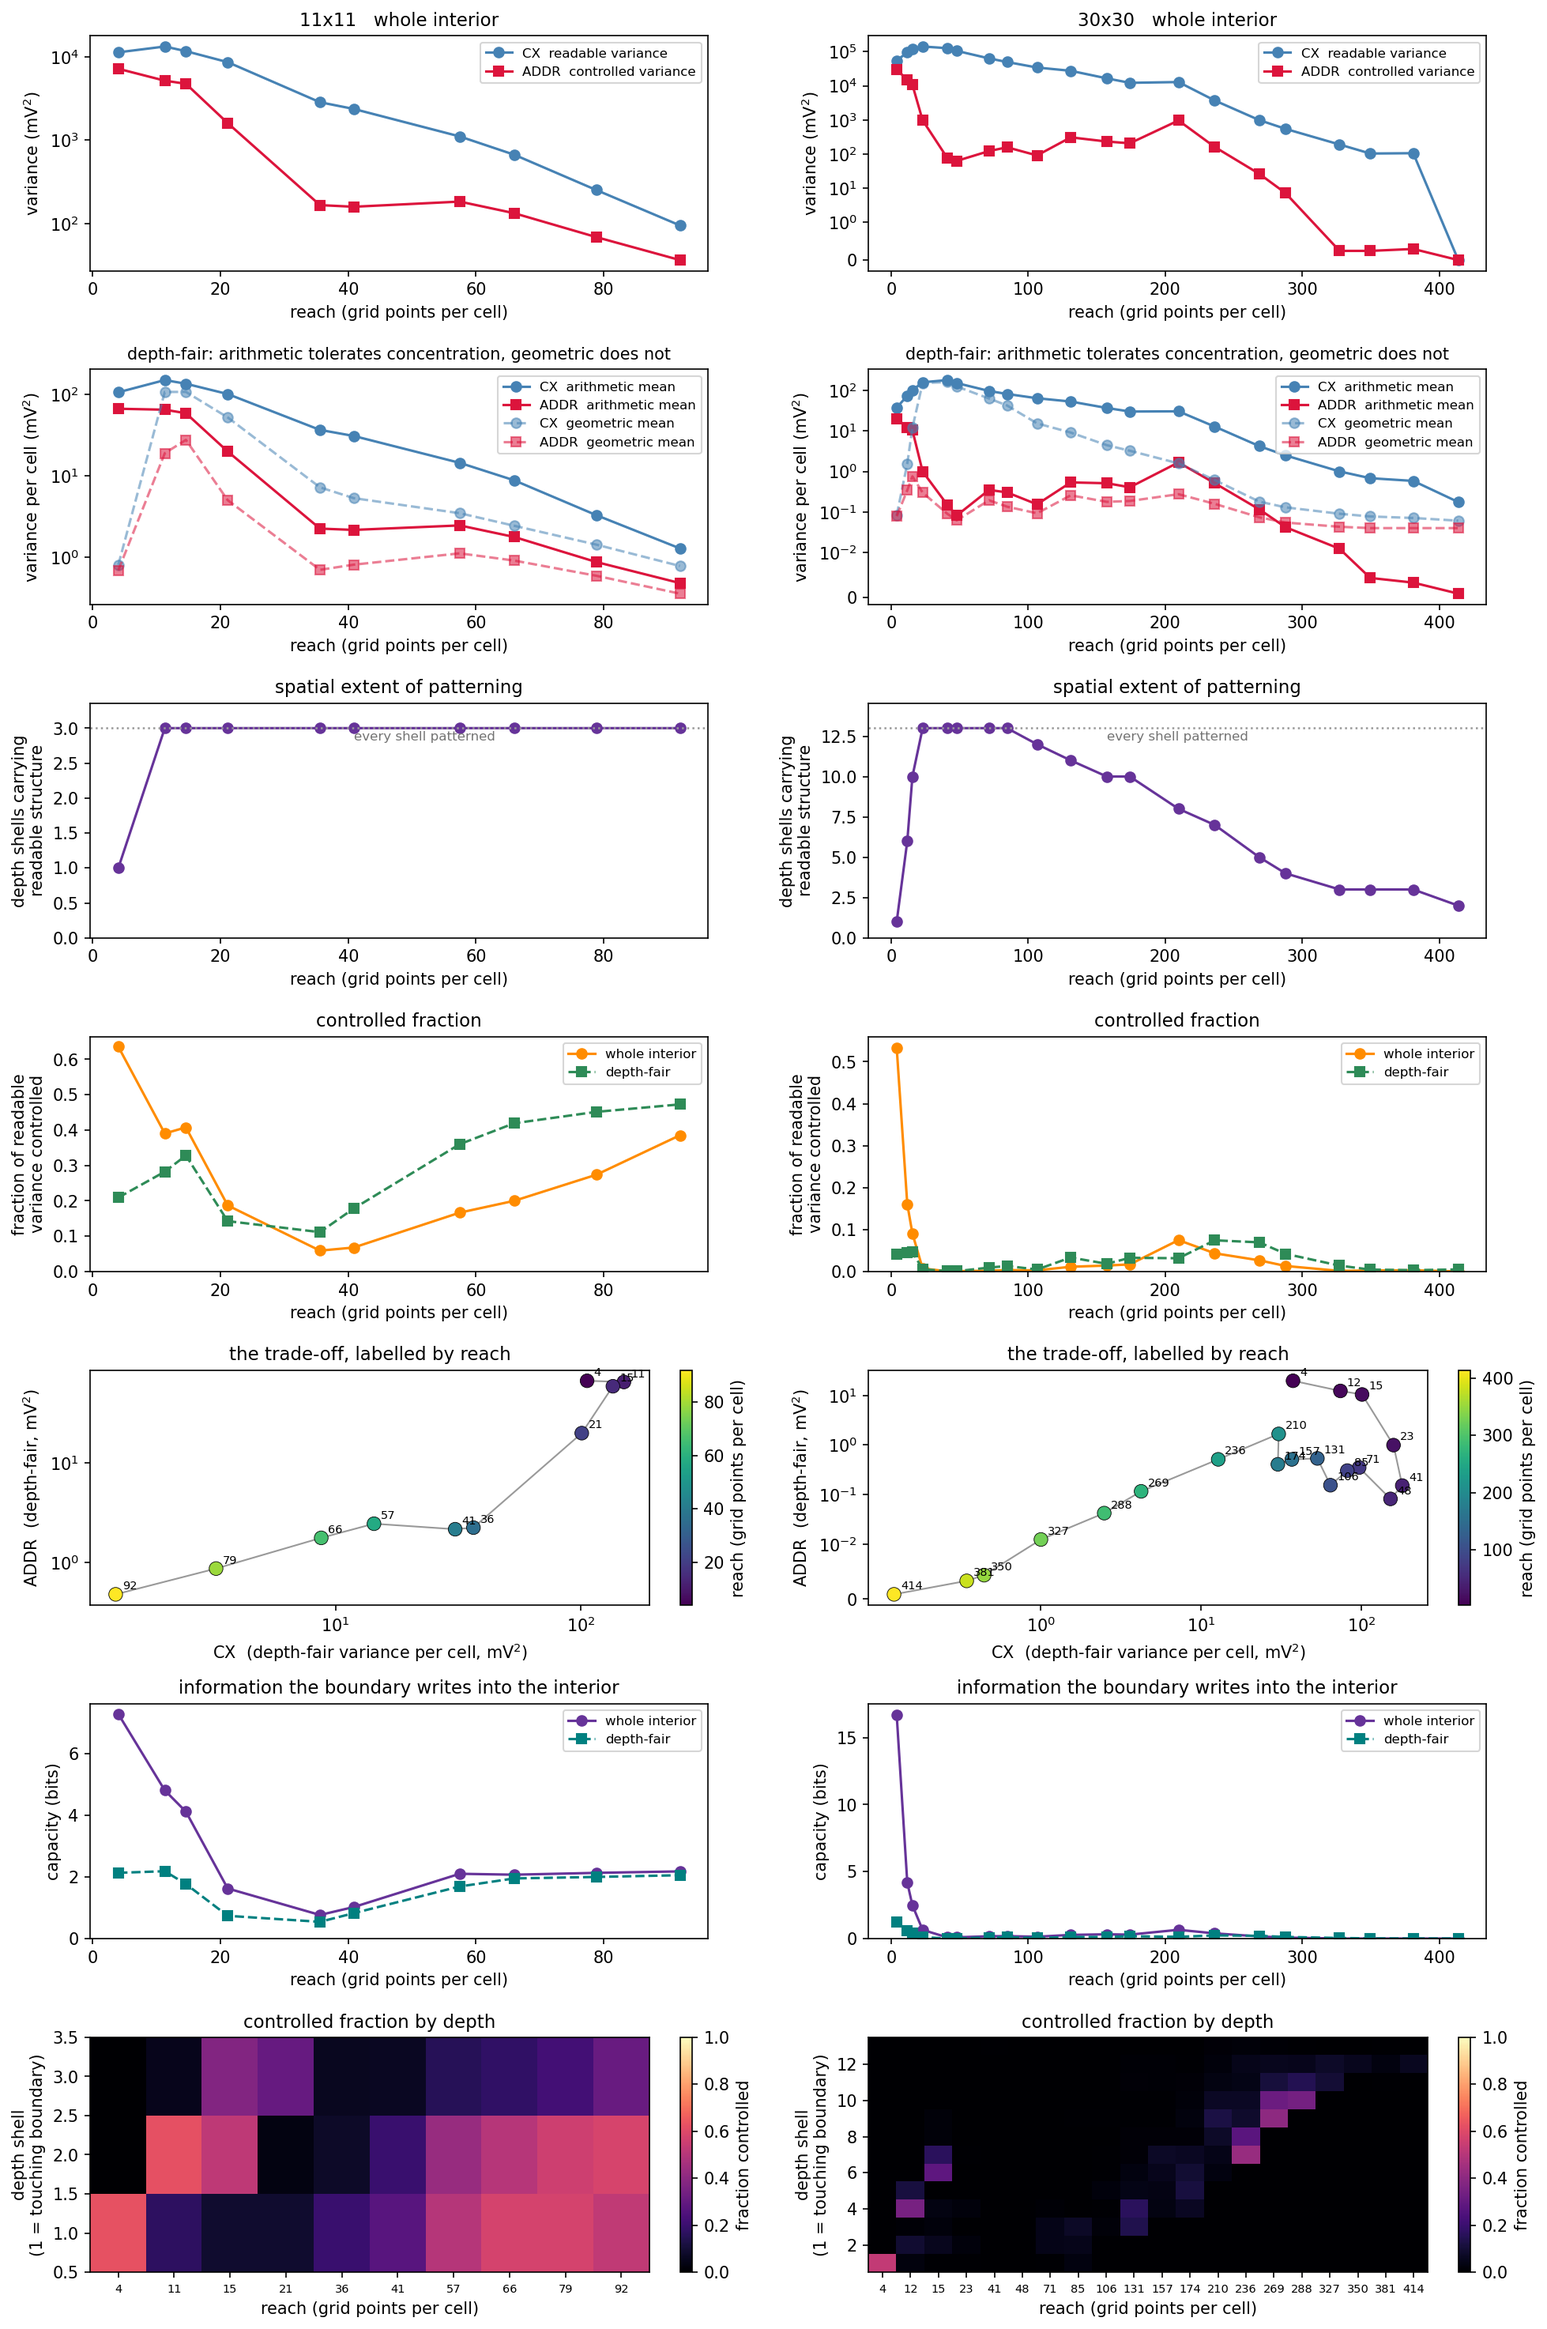
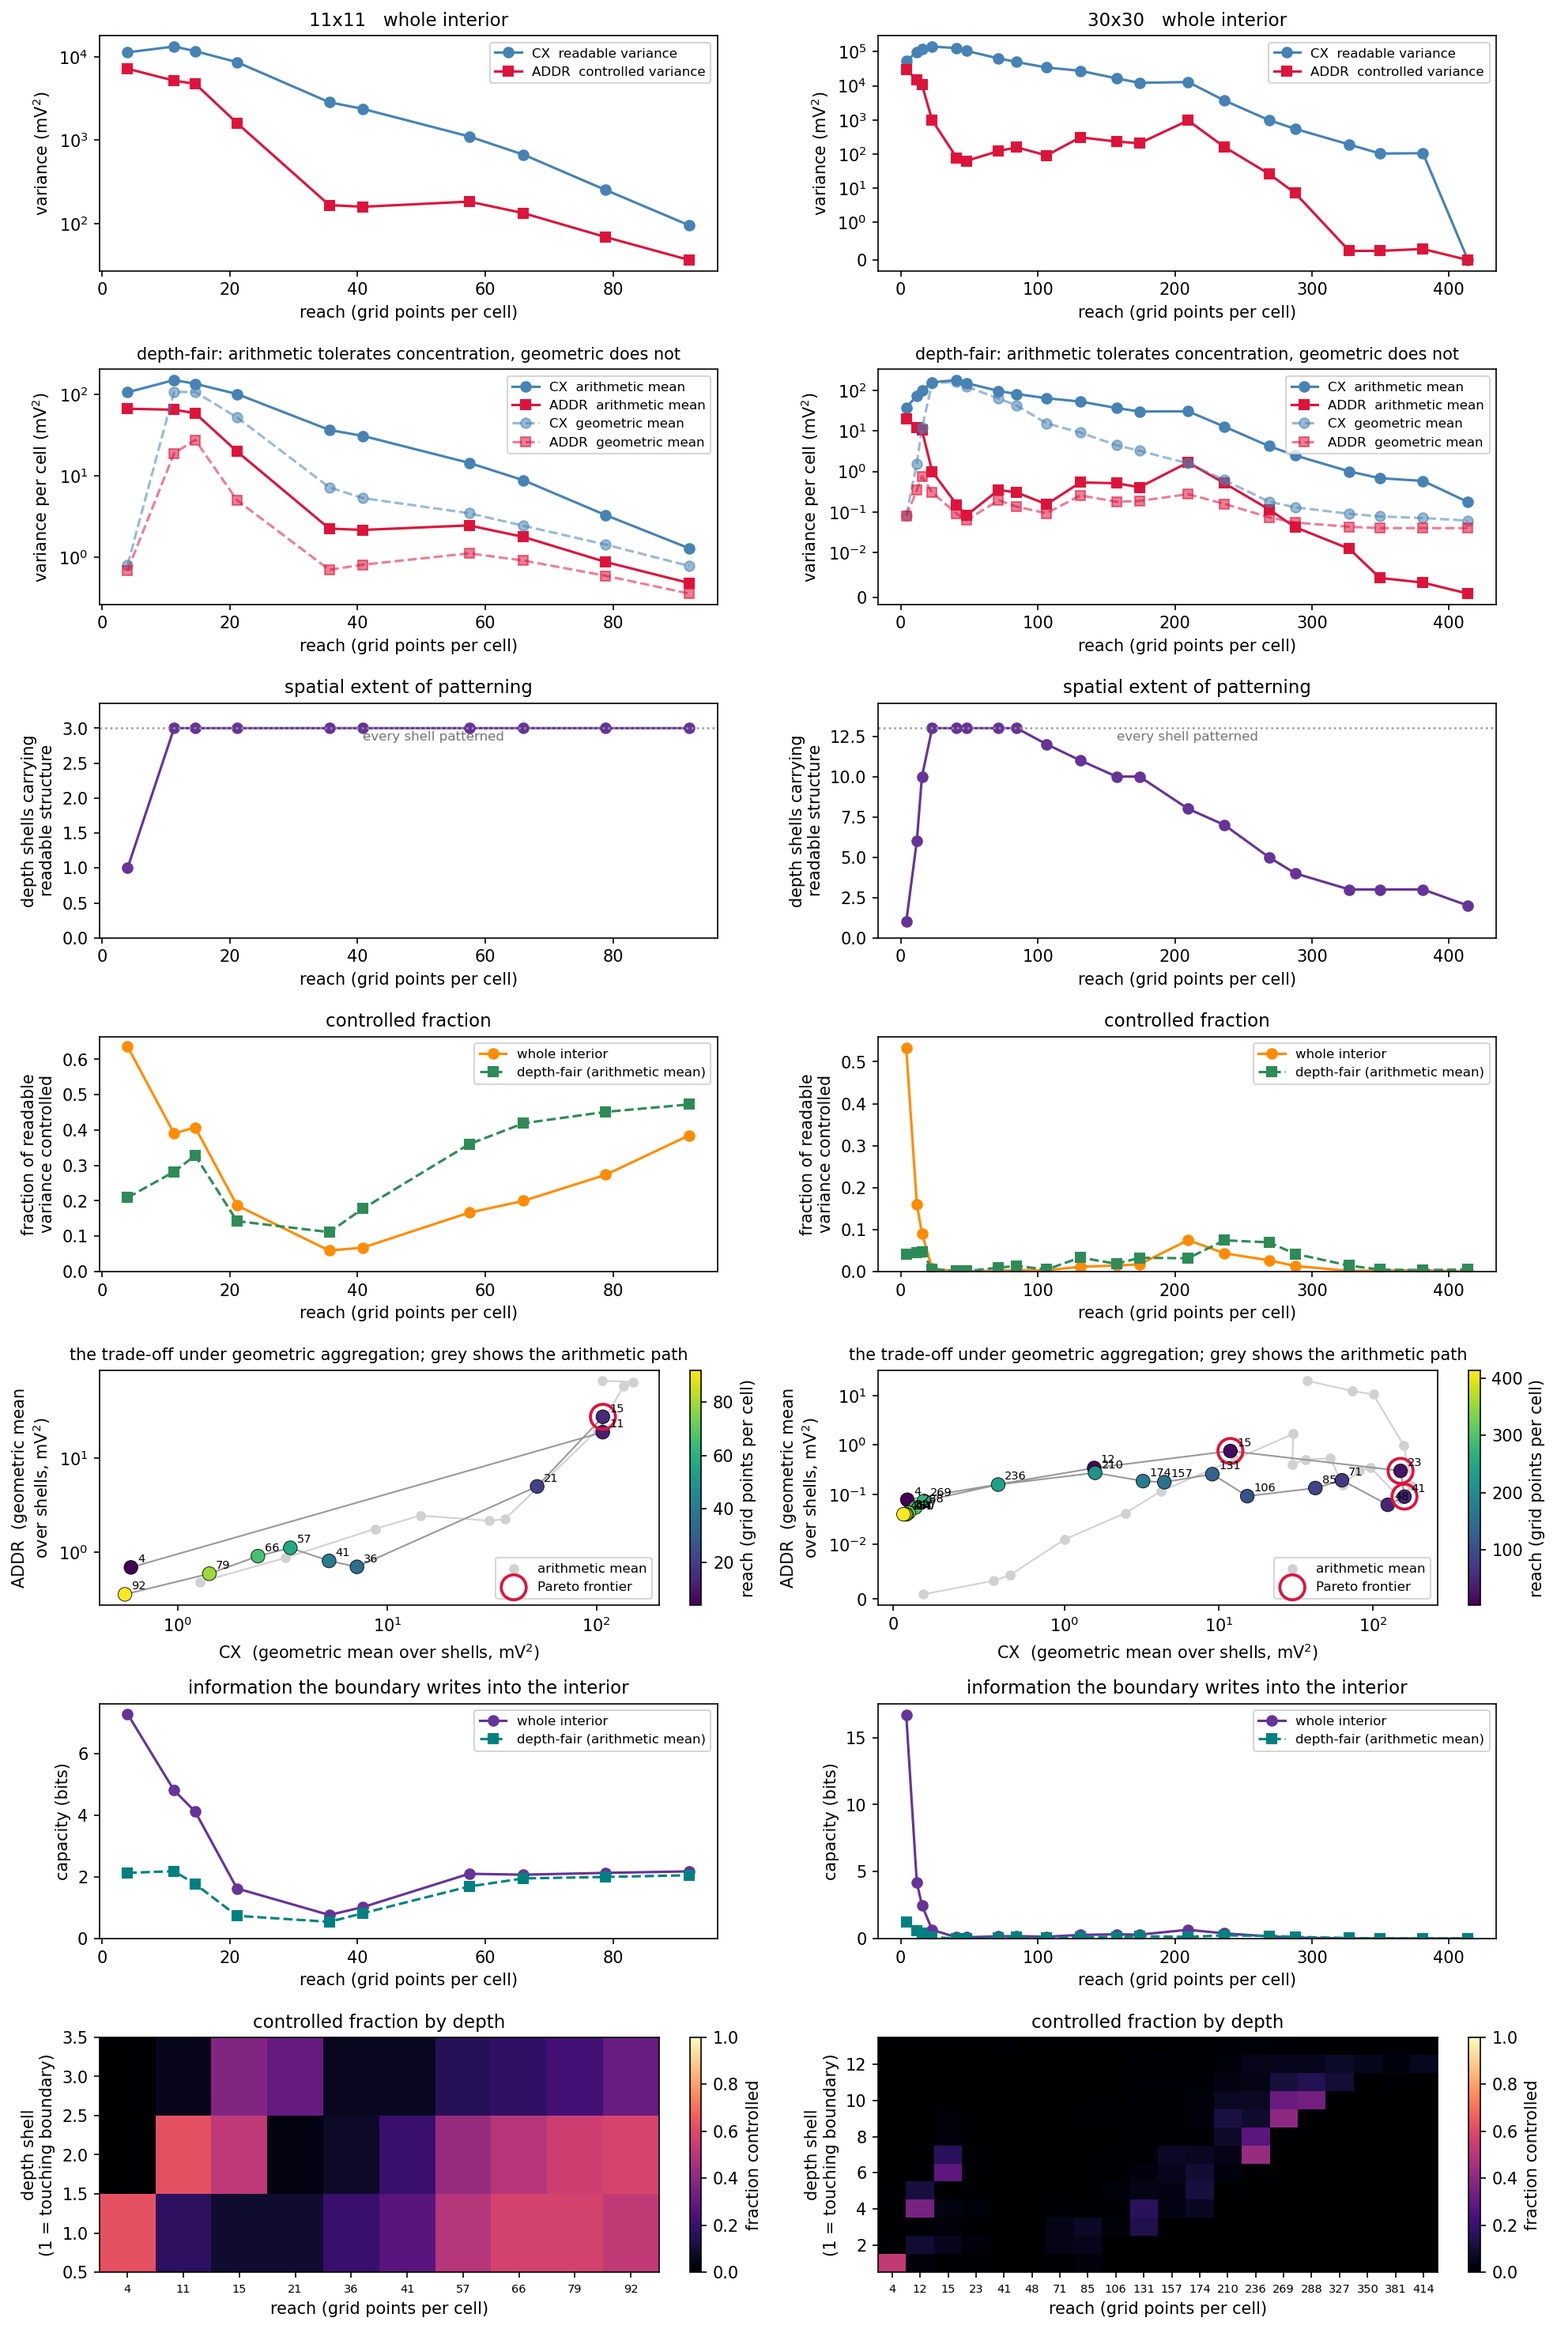
Draw the trade-off panel with the aggregation its conclusion uses
The geometric mean was added to the depth-fair line panel but nowhere else, so the trade-off
scatter -- the panel the Pareto claim is read from -- still plotted arithmetic coordinates. The
figure therefore showed the arithmetic frontier, on which the shortest reach leads, while the
reported conclusion was the geometric frontier, from which it drops out entirely. The picture
contradicted the text and nothing in either said which aggregation was in force.

The scatter now plots geometric coordinates, marks the Pareto frontier explicitly, and keeps the
arithmetic path behind it in grey so the two can be compared rather than confused. The controlled
fraction and capacity panels remain arithmetic, which is defensible for a ratio and for a bit
count, but both now name the aggregation in their legends. No panel implies one mean while
plotting another.

Frontiers as drawn: 30x30 at reaches 15.5, 22.9 and 40.8; 11x11 at 14.6 alone.

diff --git a/plot_cx_addr_tradeoff.py b/plot_cx_addr_tradeoff.py
@@ -62,28 +62,40 @@ for column, (label, path) in enumerate(inputs):
     # 4. The fraction under control, both weightings. The gap between them is fringe concentration.
     axis = figure.add_subplot(grid[3, column])
     axis.plot(reach, get('ADDR_fraction'), 'o-', color='darkorange', label='whole interior')
-    axis.plot(reach, get('fair_ADDR_fraction'), 's--', color='seagreen', label='depth-fair')
+    axis.plot(reach, get('fair_ADDR_fraction'), 's--', color='seagreen',
+              label='depth-fair (arithmetic mean)')
     axis.set_ylabel('fraction of readable\nvariance controlled'); axis.legend(fontsize=8)
     axis.set_xlabel('reach (grid points per cell)')
     axis.set_title('controlled fraction', fontsize=11); axis.set_ylim(bottom=0)
 
     # 4. The trade-off itself, as a path through the CX-ADDR plane.
     axis = figure.add_subplot(grid[4, column])
-    cx, addr = get('fair_CX_perCell'), get('fair_ADDR_perCell')
+    arithCx, arithAddr = get('fair_CX_perCell'), get('fair_ADDR_perCell')
+    cx, addr = get('geo_CX_perCell'), get('geo_ADDR_perCell')
+    axis.plot(arithCx, arithAddr, '-', color='0.82', linewidth=1, zorder=0)
+    axis.scatter(arithCx, arithAddr, c='0.82', s=26, zorder=0, label='arithmetic mean')
     axis.plot(cx, addr, '-', color='0.6', linewidth=1, zorder=1)
+    onFront = [i for i in range(len(cx))
+               if not any(cx[j] >= cx[i] and addr[j] >= addr[i] and
+                          (cx[j] > cx[i] or addr[j] > addr[i]) for j in range(len(cx)))]
+    axis.scatter(cx[onFront], addr[onFront], s=230, facecolor='none', edgecolor='crimson',
+                 linewidth=1.8, zorder=3, label='Pareto frontier')
     scatter = axis.scatter(cx, addr, c=reach, cmap='viridis', s=70, zorder=2, edgecolor='k', linewidth=0.4)
+    axis.legend(fontsize=8, loc='lower right')
     for r, x, y in zip(reach, cx, addr):
         axis.annotate(f'{r:.0f}', (x, y), fontsize=7, xytext=(4, 3), textcoords='offset points')
     figure.colorbar(scatter, ax=axis, label='reach (grid points per cell)', fraction=0.045)
     axis.set_xscale('symlog', linthresh=1); axis.set_yscale('symlog', linthresh=0.01)
-    axis.set_xlabel('CX  (depth-fair variance per cell, mV$^2$)')
-    axis.set_ylabel('ADDR  (depth-fair, mV$^2$)')
-    axis.set_title('the trade-off, labelled by reach', fontsize=11)
+    axis.set_xlabel('CX  (geometric mean over shells, mV$^2$)')
+    axis.set_ylabel('ADDR  (geometric mean\nover shells, mV$^2$)')
+    axis.set_title('the trade-off under geometric aggregation; grey shows the arithmetic path',
+                   fontsize=10)
 
     # 6. Capacity: how much the boundary writes, in bits.
     axis = figure.add_subplot(grid[5, column])
     axis.plot(reach, get('ADDR_bits'), 'o-', color='rebeccapurple', label='whole interior')
-    axis.plot(reach, get('fair_ADDR_bits'), 's--', color='teal', label='depth-fair')
+    axis.plot(reach, get('fair_ADDR_bits'), 's--', color='teal',
+              label='depth-fair (arithmetic mean)')
     axis.set_ylabel('capacity (bits)'); axis.legend(fontsize=8)
     axis.set_xlabel('reach (grid points per cell)'); axis.set_ylim(bottom=0)
     axis.set_title('information the boundary writes into the interior', fontsize=11)
